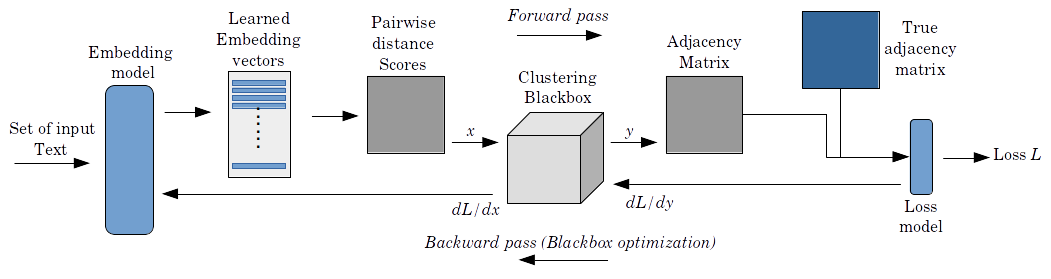
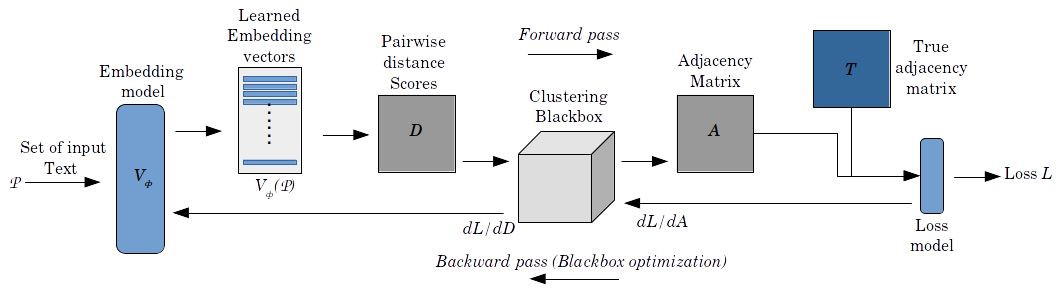
approach edits

diff --git a/acl-ijcnlp2021-templates/acl2021.tex b/acl-ijcnlp2021-templates/acl2021.tex
@@ -85,13 +85,6 @@ It is challenging to derive training signals directly from the clustering ground
 \section{Related work}
 Traditionally, text clustering is achieved by employing a distance-based clustering algorithm (e.g. KMeans) on vector representations of documents (e.g. TF-IDF~\cite{jones1972statistical}). Even in recent works, authors have followed this overall approach while improving the text representation method~\cite{chen2017improved,xu2017self,hadifar2019self} or exploring different similarity metrics between the vectors that governs the clustering algorithm through pairwise binary constraints~\cite{basu2002semi,kulis2009semi}. In this work, we focus on the former - representation learning of documents, suitable for text clustering.
 
-\begin{figure*}
-    \centering
-    \includegraphics[scale=0.58]{acl-ijcnlp2021-templates/bbcluster_arch.png}
-    \caption{Architecture of the proposed supervised clustering approach}
-    \label{fig:bbc_arch}
-\end{figure*}
-
 \textit{Deep clustering}~\cite{min2018survey} is an active field of research that aims to utilize recent advancements of deep learning techniques to improve supervised clustering. The primary focus is to learn suitable representation space that optimizes some clustering criterion (e.g. cluster assignment loss) along with a representation criterion (e.g. reconstruction loss)~\cite{xie2016unsupervised,li2018discriminatively,ghasedi2017deep,jiang2016variational}. It has also been shown that clustering criterions alone are sufficient to train such representation space~\cite{yang2016joint}. However, all these works are unsupervised in a sense that none of them attempts to receive direct supervision from a clustering ground truth. Motivated by earlier works that learn a representation model under pairwise binary constraints, Chang et al.~\cite{chang2017deep} envisions the clustering task as a binary classification task of paired data samples and achieves state-of-the-art results on multiple image clustering datasets. Reimers et al. proposes Sentence-BERT~\cite{reimers2019sentence} which trains a BERT-based~\cite{devlin2018bert} sentence embedding model by employing Triplet loss~\cite{dor2018learning} that uses triples of sentences as training samples where exactly two of them are from the same section of Wikipedia. Although both of these approaches are supervised, each training sample only consists of a fraction of the whole clustering instance and hence by no means the true representative of the clustering problem.
 %While some methods take a more holistic approach of jointly optimizing for cluster assignments and representations of data samples~\cite{xie2016unsupervised}, many focus solely on learning suitable representation space.  
 
@@ -102,14 +95,20 @@ The main hindrance of drawing supervision signals directly from the ground truth
 \section{Methodology}
 Our text clustering method works in two steps: 1. Train a text embedding model directly from example clusters of text snippets, 2. Cluster the trained embedding vectors using hierarchical agglomerative clustering (HAC). Our primary contribution lies in the training strategy of step 1 which we refer here as \textbf{C}lustering \textbf{O}ptimization as \textbf{B}lackbox (\textbf{COB}). We describe COB in the following sections.
 
-\subsection{Overall approach}\label{sec:app} We envision supervised text clustering as a combinatorial problem. Let $\mathcal{P}$ be a set of $N$ documents and $Y$ be the set of all possible $k$-partitions of set $\mathcal{P}$. Also let $V_\phi$ be an embedding model with trainable parameters $\phi$ and $V_\phi(\mathcal{P})$ be the set of representation vectors of each of the documents in $\mathcal{P}$ obtained using $V_\phi$. Based on the euclidean distances between vectors in $V_\phi(\mathcal{P})$, a clustering algorithm chooses $y \in Y$ that minimizes some linear cost function $c(V_\phi(\mathcal{P}), y)$ (e.g. intra-cluster distances for HAC). Hence the clustering process can be expressed as the following mapping:
+\subsection{Overall approach}\label{sec:app} We envision supervised text clustering as a combinatorial problem. Let $\mathcal{P}$ be a set of $N$ documents and $Y$ be the set of all possible $k$-partitions of set $\mathcal{P}$. Also let $V_\phi$ be an embedding model with trainable parameters $\phi$. We obtain the set of representation vectors $V_\phi(\mathcal{P})$ for each of the documents in $\mathcal{P}$ using the embedding model, $V_\phi$. Based on the euclidean distances between representation vectors in $V_\phi(\mathcal{P})$, a clustering algorithm choose a particular $k$-partition $\hat{y} \in Y$ that minimizes some linear cost function $c(V_\phi(\mathcal{P}), y)$ (e.g. intra-cluster distances for HAC). Hence the clustering process can be expressed as the following mapping:
 \begin{align*}
 V_\phi(\mathcal{P}) \mapsto \hat{y} \quad \textrm{such that} \quad \hat{y} = \argmin_{y \in Y} c(V_\phi(\mathcal{P}), y) \\ 
 \end{align*}
-The clustering ground truth $y^* \in Y$ is a particular $k-$partition of set $\mathcal{P}$. The training process of COB is governed by a loss function $\mathcal{L}(y^*,\hat{y})$ such that a clustering metric is maximized. Naturally, $\mathcal{L}$ should be designed in such a way that it inversely correlates with the clustering metric we want to maximize.
+The clustering ground truth $y^* \in Y$ is the ideal $k$-partition of set $\mathcal{P}$. The training process of COB is governed by a loss function $\mathcal{L}(y^*,\hat{y})$ such that a clustering metric is maximized. Naturally, in order to maximize the clustering metric, $\mathcal{L}$ should be designed to inversely correlate with the clustering metric.
 
 However, we want to emphasize here that the cost function $c(V_\phi(\mathcal{P}), y)$ is minimized as part of the clustering algorithm itself. The supervised approach we describe here, does not interfere with that. In other words, the clustering process is isolated as a \textit{blackbox} component in its entirety. The minimization of the cost function $c(V_\phi(\mathcal{P}, y)$ takes place inside this blackbox and remains opaque for our supervised model. As a result, COB is not dependent on the exact clustering algorithm we choose to implement inside the blackbox. In this work however, we choose to use HAC as our clustering algorithm. Again, we choose to optimize for RAND index in this work but our method is relevant for other clustering metrics as well (e.g. purity).
 
+\begin{figure*}
+    \centering
+    \includegraphics[scale=0.58]{acl-ijcnlp2021-templates/bbcluster_arch.png}
+    \caption{Architecture of the proposed supervised clustering approach}
+    \label{fig:bbc_arch}
+\end{figure*}
 \subsection{Optimizing for RAND index} Our goal is to train the embedding model, $V_\phi$, such that the resulting clusters maximize a clustering metric of our choice. In this work, we focus on optimizing for RAND index, a widely used clustering metric, which measures the similarity between the generated clusters and the clustering ground truth. If $y^* \in Y$ be the ground truth partition or the ideal clustering of $\mathcal{P}$, then the clustering quality of a candidate cluster $\hat{y}$ is expressed in terms of RAND index (RI):
 \begin{align*}
 RI &= \frac{a+b}{\binom{n}{2}}
@@ -126,18 +125,20 @@ The solution to the clustering problem is expressed in form of an adjacency matr
 \begin{align*}
 A_{ij} = 1 \textrm{ if } i,j \textrm{ share same cluster and } 0 \textrm{ otherwise}    
 \end{align*}
-Similarly, the clustering ground truth is expressed through another adjacency matrix, $T$. Now, we can express ARI using the following form:
+Similarly, the clustering ground truth is expressed through another adjacency matrix, $T$. Now, we can express RI using the following form:
 \begin{align*}
     RI=1-\frac{\sum |A-T|}{n^2-n} \quad \textrm{refer to Appendix}
 \end{align*}
-It is clear from the above equation that if we want to maximize RI, we need to minimize $\sum |A-T|$ (referred as the error matrix). Hence, we design a loss function that minimizes $\sum |A-T|$. Intuitively, if we are able to produce the ideal clustering results, then $A$ and $T$ would be identical, meaning $|A-T|$ is a zero matrix. Formally, we define our loss function $\mathcal{L}$ as:
+It is clear from the above equation that if we want to maximize RI, we need to minimize $\sum |A-T|$ (referred as the error matrix). Intuitively, if we are able to produce the ideal clustering results, then $A$ and $T$ would be identical, meaning $|A-T|$ is a zero matrix. Formally, we define our loss function $\mathcal{L}$ as:
 \begin{align*}
 \mathcal{L} = \sum_{i,j} A_{i,j}(1-T_{i,j}) + T_{i,j}(1-A_{i,j})
 \end{align*}
 
-The backward pass of this training loop involves estimating gradient of $\mathcal{L}$ with respect to $D$, the input to the clustering black box. This is achieved using blackbox optimization technique and the resulting gradient is used to drive a gradient descent algorithm that eventually trains the embedding model $V_\phi$. 
+The backward pass of this training loop involves estimating gradient of the loss $\mathcal{L}$ with respect to the distance matrix $D$, the input to the clustering black box. This is achieved using blackbox backpropagation technique and the resulting gradient is used to drive a gradient descent algorithm that eventually trains the embedding model $V_\phi$. 
 
-\subsection{Regularization}\label{sec:reg} The purpose of any clustering algorithm is to identify groups of similar data points. By optimizing for a clustering metric such as RI, we learn the notion of similarity from a clustering ground truth. However, to capture clear distinction between similar and dissimilar data points, we need to train the embedding model in such a way that it projects similar data points close to each other and dissimilar data points far apart. Technically, the loss function should encourage \textit{inter-cluster} distances to increase and \textit{intra-cluster} distances to decrease. This can be incorporated into the loss function by introducing a regularizer as described below.
+\subsection{Regularization}\label{sec:reg} The purpose of any clustering algorithm is to identify groups of similar data points. By optimizing for a clustering metric such as RI, we learn the notion of similarity from a clustering ground truth. However, to capture clear distinction between similar and dissimilar data points, we need to train the embedding model in such a way that it projects similar data points close to each other and dissimilar data points far apart. This is achieved when the loss function encourages \textit{inter-cluster} distances to increase and \textit{intra-cluster} distances to decrease. Although, the HAC algorithm optimizes for similar criterion, it is separate from our training loop as we treat the clustering component as a \textit{black box}. Hence, this is incorporated into the loss function by introducing a regularizer as described below.
+% If we so not include such criterion in the loss function then the model will not learn to distinguish between similar and dissimilar data enough because two clustering results may have the same ARI whether or not the similar elements are enough far apart from the dissimilar or not. But the learned model will be prone to make mistakes for unseen clustering data. Hence, it is necessary to enforce distinguishing power along with optimizing for RI.
+
 \begin{align*}
     \mathcal{L}_{r} &= \mathcal{L} + r \cdot [\textrm{mean intra-cluster distance}\\ &- \textrm{mean inter-cluster distance}] \\
     &= \mathcal{L} + r \cdot \Bigg[\frac{\sum_{ij} D_{ij}T_{ij}}{\sum_{ij} T_{ij}} - \frac{\sum_{ij} D_{ij}(1-T_{ij})}{\sum_{ij}(1-T_{ij})}\Bigg] \\
@@ -172,7 +173,7 @@ Dataset && N & C & d & k \\ \hline
     \label{fig:wiki}
 \end{figure}
 
-Section labels in TRECCAR dataset are hierarchical. This provides an opportunity to evaluate our clustering models under different levels of granularity. As depicted in Figure \ref{fig:wiki}, passages $p_6$ and $p_7$ in article \textit{COVID 19} belong to the sections \textit{Cause} and \textit{Cause/Transmission} respectively. Under coarse view of the clustering, we will consider $p_6,p_7$ under the same topic cluster \textit{Cause}. However, for fine-grained clustering we have to consider $p_6,p_7$ under separate subtopic clusters. Fortunately, TRECCAR dataset provides both in form of \textit{top-level} (coarse) and \textit{hierarchical} (fine-grained) benchmarks. We train and evaluate our models on both flavors of the dataset. Statistics of the datasets are provided in Table \ref{tab:dat}.
+Section labels in TRECCAR dataset are hierarchical. This provides an opportunity to evaluate our clustering models under different levels of granularity. As depicted in Figure \ref{fig:wiki}, passages $p_6$ and $p_7$ in article \textit{COVID 19}  belong to the sections \textit{Cause} and \textit{Cause/Transmission} respectively. Under coarse view of the clustering, we will consider $p_6,p_7$ under the same topic cluster \textit{Cause}. However, for fine-grained clustering we have to consider $p_6,p_7$ under separate subtopic clusters. Fortunately, TRECCAR dataset provides both in form of \textit{top-level} (coarse) and \textit{hierarchical} (fine-grained) benchmarks. We train and evaluate our models on both flavors of the dataset. Statistics of the datasets are provided in Table \ref{tab:dat}.
 
 %need to find out best way to represent stats of dataset
 \begin{table}[h]
@@ -277,7 +278,7 @@ SBERT COB     & \textbf{0.178} & \textbf{0.682} \\ \hline
 n=35&&\\
 DBC           & 0.077$\blacktriangledown$ & 0.595$\blacktriangledown$ \\
 %SBERT Triplet & 0.167 & 0.675 \\
-SBERT Triplet & & \\
+SBERT Triplet & 0.152$\blacktriangledown$ & 0.665$\blacktriangledown$ \\
 SBERT COB     & 0.163 & 0.672 \\ \hline
 n=40&&\\
 DBC           & 0.066$\blacktriangledown$ & 0.582$\blacktriangledown$ \\
